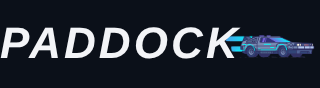
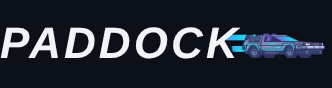
Give the DeLorean a little more presence

diff --git a/web/src/styles.css b/web/src/styles.css
@@ -49,7 +49,7 @@ h1, h2, h3, p { margin-top: 0; }
 .brand-car {
   display: block;
   min-width: 0;
-  width: 2.15em;
+  width: 2.4em;
   height: auto;
   margin-inline-start: -.37em;
   overflow: hidden;

diff --git a/docs/plan-diseno-regreso-al-futuro.md b/docs/plan-diseno-regreso-al-futuro.md
@@ -47,3 +47,5 @@ La cabecera final escala la palabra, el coche y su empalme de forma conjunta. El
 El recorte del DeLorean quedaba entre 6,7 y 8,6 px por debajo de la línea base de PADDOCK. Ahora el borde inferior coincide con esa línea a los cinco anchos comprobados. La escala toma como referencia el PNG del TFM. El techo del coche queda por debajo de la parte alta de la K y la primera estela entra en el hueco entre sus brazos. [Logo del TFM](../images/logo.png) · [Cabecera anterior](evidence/ux/regreso-al-futuro/antes-marca-1440.png) · [Escritorio ajustado](evidence/ux/regreso-al-futuro/despues-marca-1440.png) · [Móvil ajustado](evidence/ux/regreso-al-futuro/despues-marca-390.png).
 
 El botón cerrado y el avatar del chat usan la silueta de la ilustración adjunta. Se recuperó el trazo con una edición de color guiada por la imagen y se exportó su máscara a un PNG de 104 px. La interfaz muestra esa máscara a 28 px y la tiñe con el color de cada superficie. El botón conserva el nombre accesible, el área táctil de 52 px y la devolución del foco al cerrar con Escape. [Botón del asistente](evidence/ux/regreso-al-futuro/einstein-boton.png) · [Avatar](evidence/ux/regreso-al-futuro/einstein-avatar.png).
+
+El último ajuste amplía el coche un 11,6 %. El recorte pasa de unos 56 a 62 px en escritorio y de 47 a 53 px en móvil. La línea base y el solapamiento con la K coinciden con la versión anterior en los cinco anchos medidos. Las capturas de la cabecera muestran esta escala.
